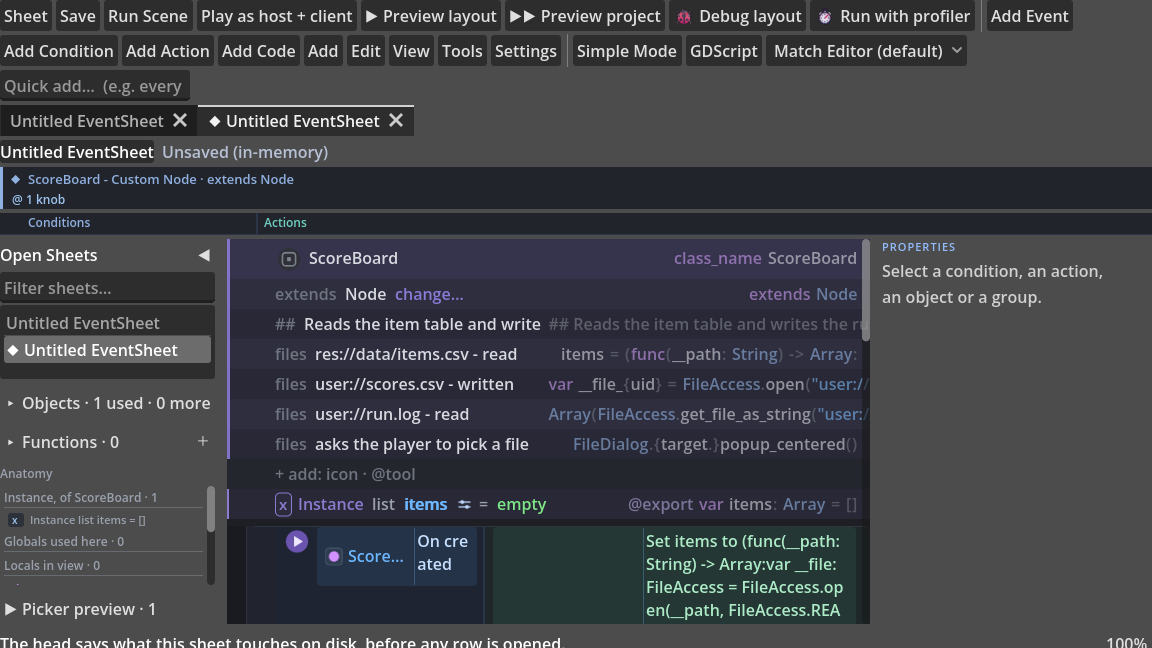
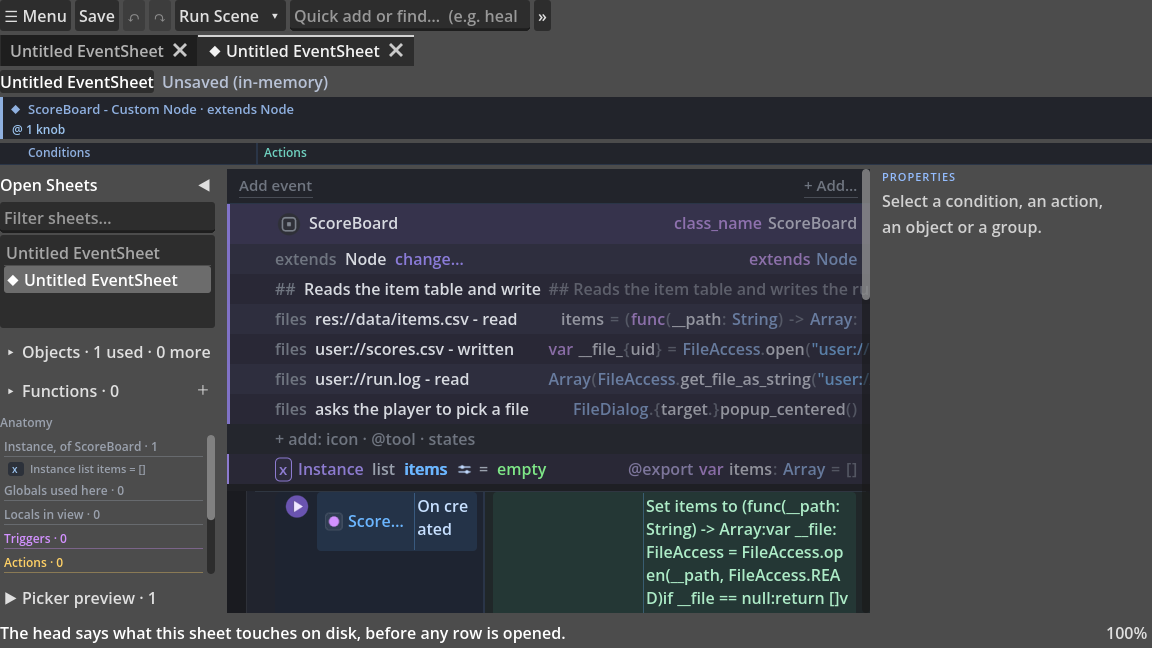
fix(files): the band says what each path is for, not what the row does in general
touch_of answered one word for a whole template and every path field of the row wore it,
so an unpack - which only ever READS its archive and only ever WRITES the folder it lands
in - put 'read and written' on both, and so did a pack. Each is untrue of the path it was
said about.

A path FIELD is now classified on its own: the lines of the template that mention that
slot are the scope. A handle carries its class down to the line that uses it, because
'var reader := ZIPReader.new()' is one line and 'reader.open({archive})' another - and only
where the slot is the thing being OPENED, since a packer's write_file line carries the
packer's name too and the folder read inside that call is a read however the bytes are
used. A slot the scope cannot answer for keeps the row's own word.

A literal found in the emitted line that a field of the same row already named keeps the
field's word, which is what stopped the general answer from being merged back over it. A
path one row reads and another writes still merges to 'read and written', which is the
case that word is for.

Previews regenerated: the band now reads res://data/items.csv - read beside
user://scores.csv - written, and the unpack's user://pack.zip - read beside
user://mods - written. The guide and the module page say the same, and their captions
match the pictures again.

diff --git a/docs/Modules/Working-With-Files.md b/docs/Modules/Working-With-Files.md
@@ -190,11 +190,11 @@ an event for each of them or the script does not compile.
 |------|--------------|----------|
 | Pack Folder Into Zip | Writes the files directly in one folder into a `.zip` | `var __packer := ZIPPacker.new()`, `if __packer.open({archive}) == OK:`, then `start_file` / `write_file(FileAccess.get_file_as_bytes(…))` / `close_file` per file |
 | Unpack Zip Into Folder | Reads a `.zip` and writes its entries into a folder, guarded | `var __reader := ZIPReader.new()`, the folder made first, then per entry the guard `if not ProjectSettings.globalize_path(__into).simplify_path().begins_with(__root):` before `FileAccess.open(…, FileAccess.WRITE)` |
-| On Unpack Progress | Runs once per entry as an unpack writes it | `func _on_unpack_progress(entries: int, bytes: int) -> void:` |
+| On Unpack Progress | Runs once per entry as an unpack writes it | `func _on_unpack_progress(entries: int, bytes: int, total: int) -> void:` |
 | On Unpack Refused | Runs when the guard stopped an unpack, with the entry and the reason | `func _on_unpack_refused(entry: String, reason: String) -> void:` |
-| On Unpack Finished | Runs when an unpack reached the last entry with nothing refused | `func _on_unpack_finished(entries: int, bytes: int) -> void:` |
+| On Unpack Finished | Runs when an unpack reached the last entry with nothing refused | `func _on_unpack_finished(entries: int, bytes: int, skipped: int) -> void:` |
 
-![Four events in a sheet called ModInstaller, under a head whose files bands read user://pack.zip - read and written and user://mods - read and written with the ZIPReader line echoed beside each: On Created with System Unpack "user://pack.zip" into folder "user://mods", then On Unpack Progress setting Bar value to entries, On Unpack Refused setting Label text to "Refused: " and reason, and On Unpack Finished setting Label text to "Installed " and entries](../images/archive-unpack.png)
+![A sheet called ModInstaller under a head whose files bands read user://pack.zip - read and user://mods - written, the ZIPReader line echoed beside each: On Created unpacks "user://pack.zip" into folder "user://mods", and On Unpack Progress sets a bar value to entries divided by total, with the refused and finished events below](../images/archive-unpack.png)
 
 ### Files: the name a player typed
 
@@ -543,8 +543,9 @@ On a file chosen path
   -> Write Text File  path, To JSON Text (pretty)(level)
 ```
 
-**25. Installing a mod the player downloaded.** The unpack reports itself, so the progress bar moves
-and a hostile archive is refused out loud rather than quietly writing somewhere it should not.
+**25. Installing a mod the player downloaded.** The unpack reports itself entry by entry, says how
+many entries it skipped, and refuses a hostile archive out loud rather than quietly writing somewhere
+it should not.
 
 ```
 On install pressed
@@ -704,18 +705,31 @@ On load pressed
 - **A refused unpack stops where it stopped.** The entries written before the bad one stay written.
   That is deliberate - the sheet is told which entry stopped it, and clearing up is a decision, not
   something a row should make on your behalf.
-- **The unpack counts what LANDED, not what it tried.** An entry the machine would not write - a name
-  the file system refuses, a folder it could not make, a full disk - moves neither the progress bar
-  nor the totals On Unpack Finished carries. A finish saying nine entries after a ten-entry archive
-  is a finish saying one did not land.
+- **The unpack counts what LANDED, what it SKIPPED, and how many there were.** An entry the machine
+  would not write - a name the file system refuses, a folder it could not make, a full disk - moves
+  neither the progress bar nor the first two totals On Unpack Finished carries. It moves the THIRD,
+  which counts the entries that did not land, so a finish saying nine entries and one skipped after a
+  ten-entry archive says the install is not complete. On Unpack Progress carries the archive's own
+  entry count beside its two, which is the number a bar divides by.
+- **An entry the reader could get no bytes out of is skipped, not written.** `ZIPReader.read_file`
+  answers with an empty byte array for an entry it could not decode - a truncated archive, a header
+  that lies about its length, a CRC that does not match - and prints an engine message while doing
+  it. Writing that answer out would land a 0-byte file the game then reads as content, so it is
+  skipped and counted instead. An entry that really IS empty reads exactly the same way and is
+  skipped with it: the reader offers no size to tell them apart, and this is the safer way to be
+  wrong.
+- **The unpack loop does not yield.** It runs to the end inside the one row, so the window does not
+  repaint while it works. An archive big enough for that to matter wants its own reading with a
+  waiting loop, hand-written; nothing here pretends otherwise.
 - **The unpack guard is LEXICAL, and three things it cannot see are worth knowing.** It compares the
   real path each entry would land at against the real path of the target folder, which is what turns
   every spelling of `..` into a refusal. But (1) a **symlink or junction already sitting inside the
   target folder** redirects a write out of it, because the path is inside and the file system is not -
   the guard sees the path, not the link; (2) on Windows, an entry named `x:y.txt` lands as an
   **alternate data stream** on a file called `x` rather than as a file of its own, which is a payload
-  that does not show in a directory listing; and (3) an entry the reader cannot decode gives back
-  nothing, so it lands as a **0-byte file** and is counted as one that landed.
+  that does not show in a directory listing; and (3) an entry the OS refuses outright - a reserved
+  device name such as `CON`, an empty name - is dropped where the write guard sits, counted as
+  skipped, and not otherwise reported.
 - **An entry is read whole before it is written.** `read_file` materialises the entire entry in
   memory, so an archive from outside the game can be a memory bill as well as a disk one. Check the
   archive's size before unpacking one somebody sent.

diff --git a/docs/GUIDE-FILES-AND-FOLDERS.md b/docs/GUIDE-FILES-AND-FOLDERS.md
@@ -204,11 +204,14 @@ once per line with the current one readable as `line`.
 ### The band at the top says what this sheet touches
 
 A sheet that reads or writes files grows a **files** band in its head, one entry per path, saying
-what happens to it: `user://save.json - read and written`. A row that starts a watch reads
+what happens to it: `user://scores.csv - written`, `res://data/items.csv - read`. Each path field is
+read on its own rather than the row as a whole, so an unpack shows `user://pack.zip - read` beside
+`user://mods - written` rather than calling both by the same word; a path one row reads and another
+writes is the one that says `read and written`. A row that starts a watch reads
 `watching user://mods every 2.0 s`, because a folder read once and a folder read every two seconds
 for the rest of the session are not the same thing to say about a sheet.
 
-![A sheet head with a files band listing user://pack.zip - read and written and user://mods - read and written, each with the engine call echoed beside it](images/files-band.png)
+![A sheet head with a files band listing res://data/items.csv - read, user://scores.csv - written and user://run.log - read, each with the engine call echoed beside it, then the line saying this sheet asks the player for a file](images/files-band.png)
 
 ## The drop and the ask
 
@@ -336,19 +339,25 @@ simplified, the folder keeping its trailing slash so `user://mods` cannot accept
 so the rows after the unpack still run and the row still fits inside a sheet function that answers
 with a value.
 
-A huge archive meets a progress bar rather than a frozen game: **On Unpack Progress** reports the
-entries and bytes that have landed, once per entry, and **On Unpack Finished** ends a run that
-reached the last entry. Both numbers count writes that SUCCEEDED: an entry the machine would not
-write - a name the file system refuses, a folder it could not make, a disk that is full - moves
-neither the bar nor the totals, so a finish saying nine of ten entries is a finish saying one did not
-land. Like the Ask rows, the emitted loop calls all three answers **by name**, so a sheet that
+**On Unpack Progress** reports the entries and bytes that have landed, once per entry, and how many
+entries the archive holds in all - the number a bar divides by. The whole unpack happens inside the
+one row: there is no waiting in the loop, so the reports arrive in a burst and the window repaints
+once the row is done. What a bar reads off them is how far the run got, not the run happening.
+
+**On Unpack Finished** ends a run that reached the last entry, and its three numbers say what became
+of the archive. The first two count writes that SUCCEEDED. The third counts the entries that did NOT
+land: one the reader could get no bytes out of - a truncated or corrupted archive, and an entry that
+really is empty, which reads exactly the same way - and one the machine would not write, such as a
+name the file system refuses, a folder it could not make or a disk that is full. Nothing of theirs is
+on disk, so a finish saying nine entries and one skipped is a finish saying the install is not
+complete. Like the Ask rows, the emitted loop calls all three answers **by name**, so a sheet that
 unpacks needs an event for each:
 
 ```gdscript
 extends Node
 
 
-func _on_unpack_progress(entries: int, bytes: int) -> void:
+func _on_unpack_progress(entries: int, bytes: int, total: int) -> void:
 	print(entries)
 
 
@@ -356,11 +365,11 @@ func _on_unpack_refused(entry: String, reason: String) -> void:
 	print(reason)
 
 
-func _on_unpack_finished(entries: int, bytes: int) -> void:
+func _on_unpack_finished(entries: int, bytes: int, skipped: int) -> void:
 	print(bytes)
 ```
 
-![Four events in a sheet called ModInstaller, under a head whose files bands read user://pack.zip - read and written and user://mods - read and written with the ZIPReader line echoed beside each: On Created with System Unpack "user://pack.zip" into folder "user://mods", then On Unpack Progress setting Bar value to entries, On Unpack Refused setting Label text to "Refused: " and reason, and On Unpack Finished setting Label text to "Installed " and entries](images/archive-unpack.png)
+![A sheet called ModInstaller under a head whose files bands read user://pack.zip - read and user://mods - written, the ZIPReader line echoed beside each: On Created unpacks "user://pack.zip" into folder "user://mods", and On Unpack Progress sets a bar value to entries divided by total, with the refused and finished events below](images/archive-unpack.png)
 
 ## The name the player typed
 
